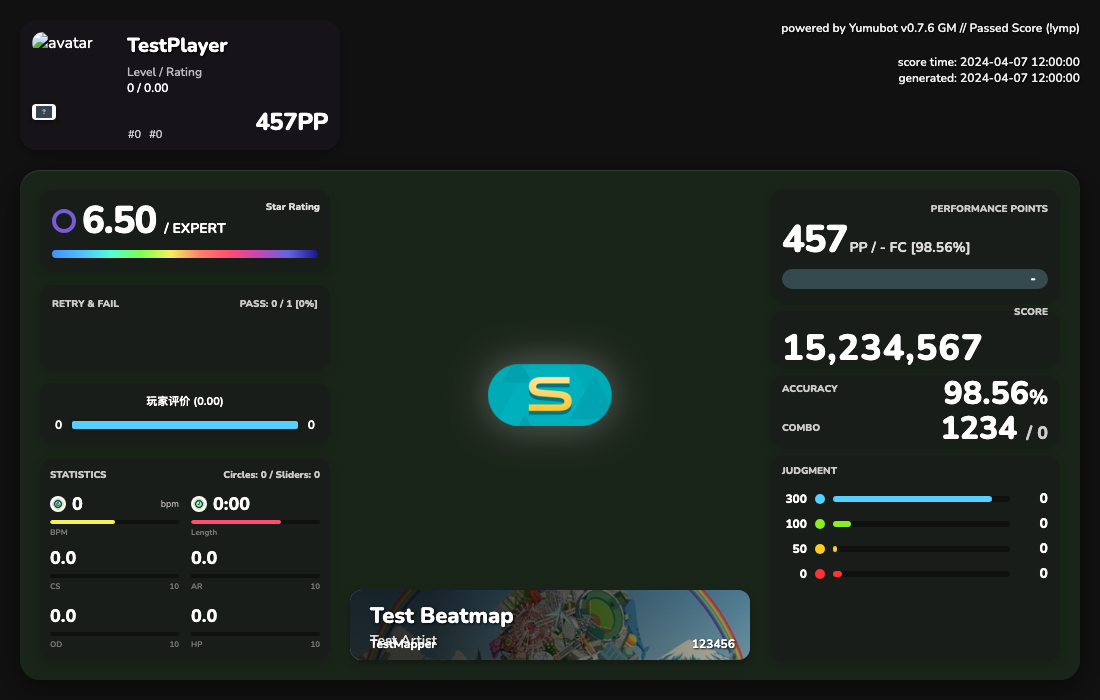
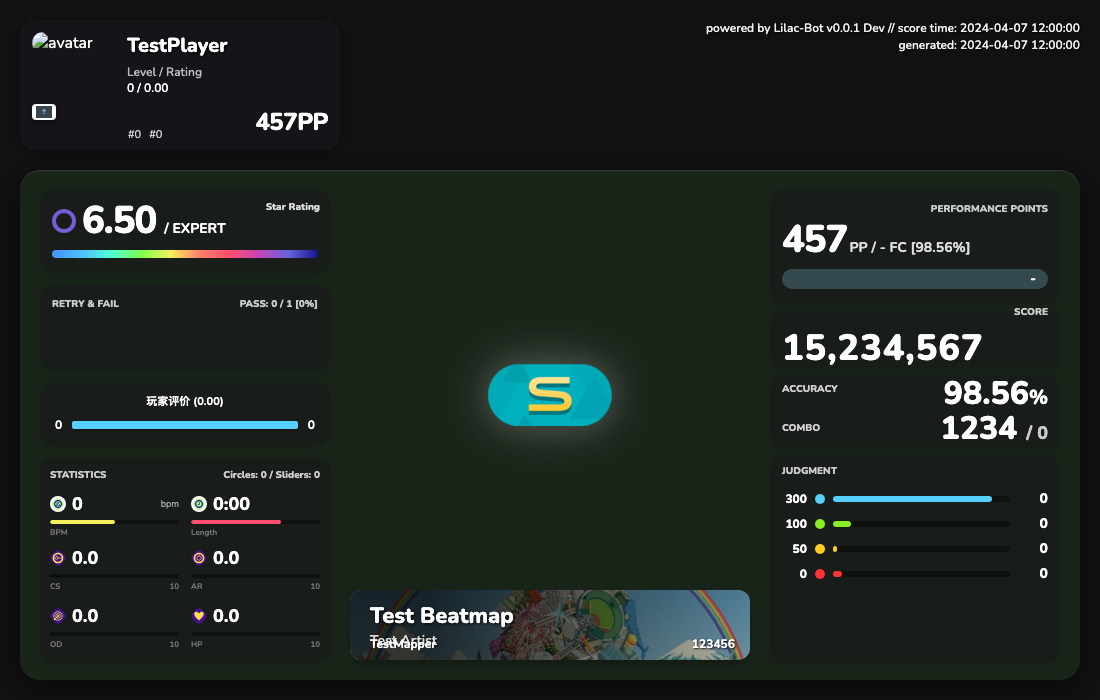
添加图标

diff --git a/score_templates/index.html b/score_templates/index.html
@@ -690,6 +690,7 @@
                     <!-- CS -->
                     <div class="stat-box">
                         <div class="sb-top">
+                            <span class="sb-icon" style="background:transparent;"><img src="{{ assets_dir }}/mapinfo/count_sliders.svg" style="width: 16px; height: 16px;"></span>
                             <span class="sb-val">{{ cs }}</span>
                         </div>
                         <div class="sb-bar-bg"><div class="sb-bar-fg" style="width: {{ cs_percent }}%;"></div></div>
@@ -698,6 +699,7 @@
                     <!-- AR -->
                     <div class="stat-box">
                         <div class="sb-top">
+                            <span class="sb-icon" style="background:transparent;"><img src="{{ assets_dir }}/mapinfo/count_circles.svg" style="width: 16px; height: 16px;"></span>
                             <span class="sb-val">{{ ar }}</span>
                         </div>
                         <div class="sb-bar-bg"><div class="sb-bar-fg" style="width: {{ ar_percent }}%;"></div></div>
@@ -706,6 +708,7 @@
                     <!-- OD -->
                     <div class="stat-box">
                         <div class="sb-top">
+                            <span class="sb-icon" style="background:transparent;"><img src="{{ assets_dir }}/mapinfo/od.svg" style="width: 16px; height: 16px;"></span>
                             <span class="sb-val">{{ od }}</span>
                         </div>
                         <div class="sb-bar-bg"><div class="sb-bar-fg" style="width: {{ od_percent }}%;"></div></div>
@@ -714,6 +717,7 @@
                     <!-- HP -->
                     <div class="stat-box">
                         <div class="sb-top">
+                            <span class="sb-icon" style="background:transparent;"><img src="{{ assets_dir }}/mapinfo/hp.svg" style="width: 16px; height: 16px;"></span>
                             <span class="sb-val">{{ hp }}</span>
                         </div>
                         <div class="sb-bar-bg"><div class="sb-bar-fg" style="width: {{ hp_percent }}%;"></div></div>
